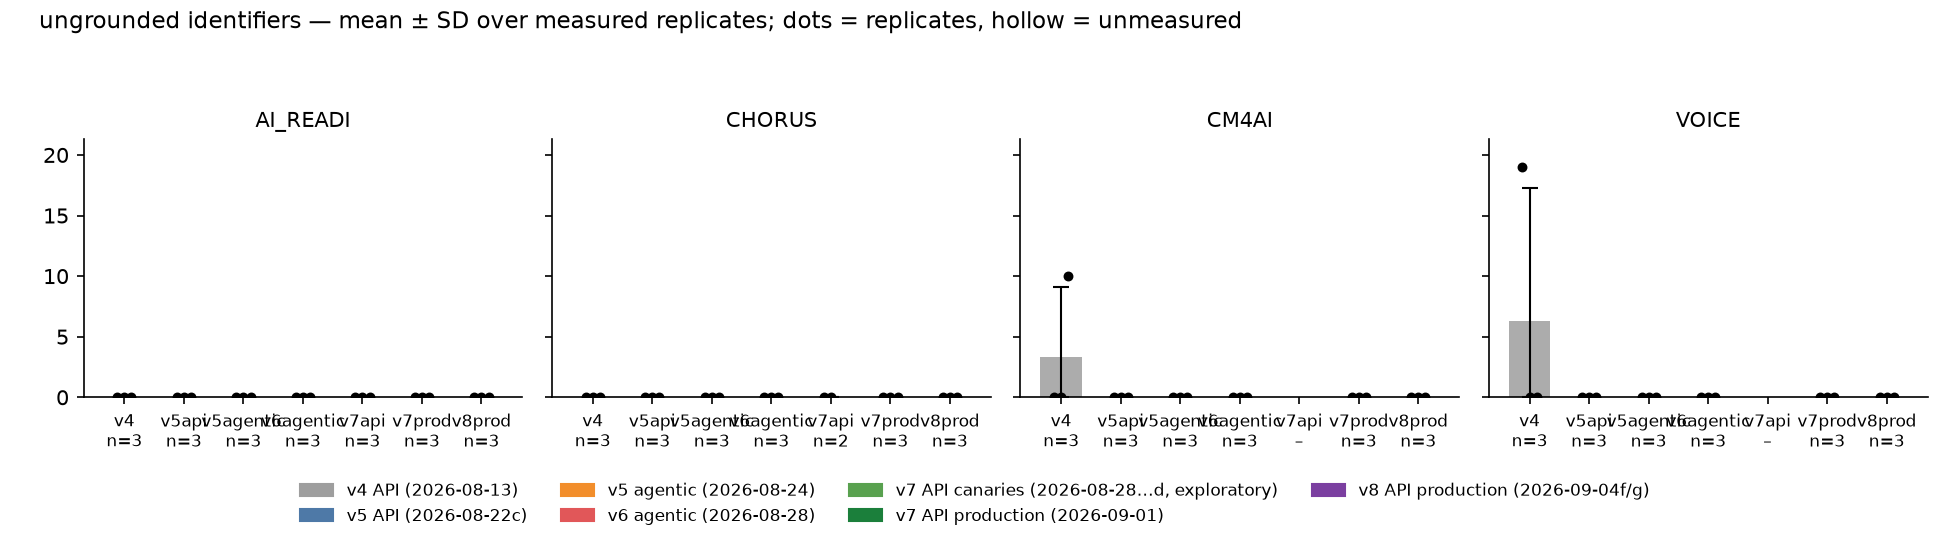
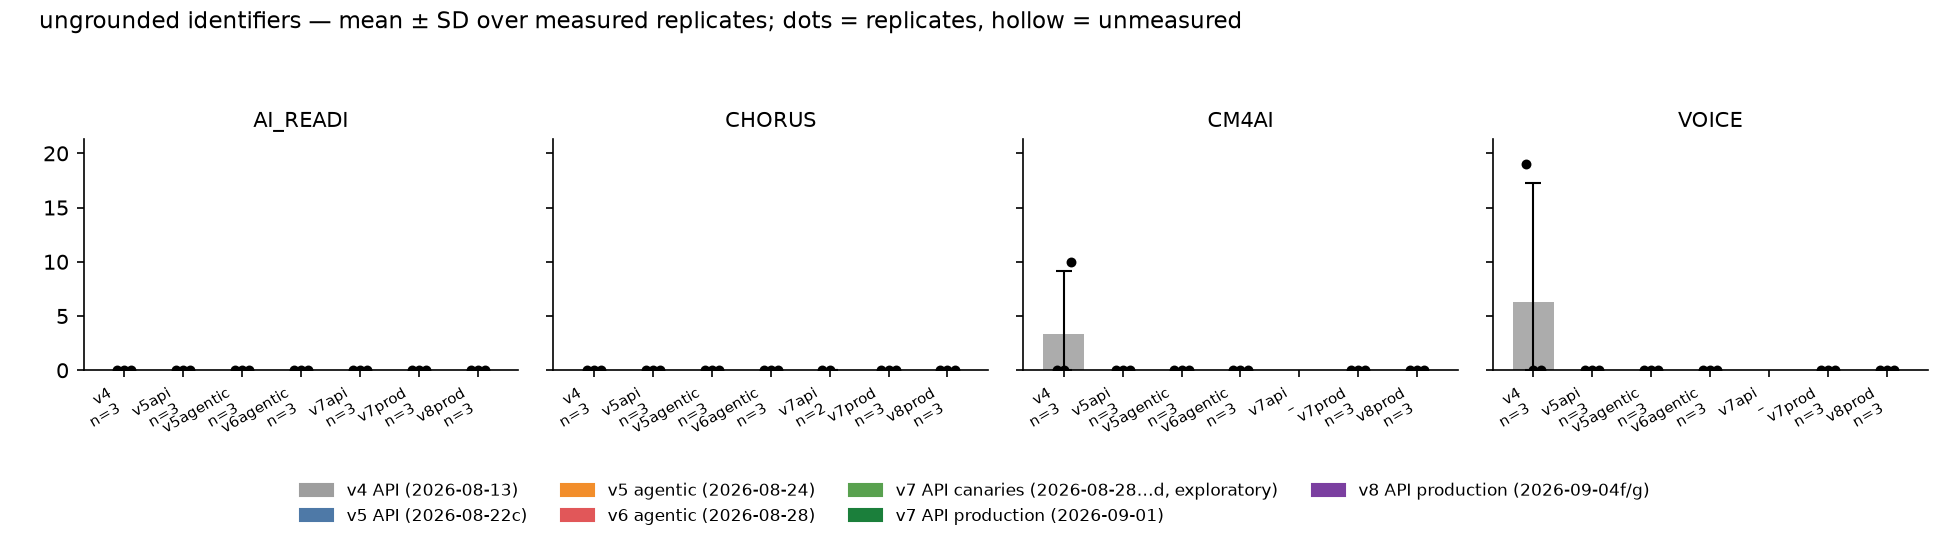
arm_comparison figures: tick labels rotated so seven arm names no longer collide
Claude-Session: https://claude.ai/code/session_01FZJCoGQBzUMEKF6XdWAFLc

diff --git a/scripts/arm_comparison.py b/scripts/arm_comparison.py
@@ -459,7 +459,7 @@ def write_figures(data, scores) -> None:
                         ax.scatter([x], [v], s=18, facecolors="white", edgecolors="black", zorder=3)
             ax.set_xticks(range(len(ARMS)))
             ax.set_xticklabels([f"{k}\nn={ns[i]}" if i in ns else f"{k}\n–"
-                                for i, (k, *_) in enumerate(ARMS)], fontsize=8)
+                                for i, (k, *_) in enumerate(ARMS)], fontsize=7, rotation=30, ha="right")
             ax.set_title(p, fontsize=10)
             ax.spines[["top", "right"]].set_visible(False)
         # One shared y-range for the row, floored at zero (counts) and sized to
